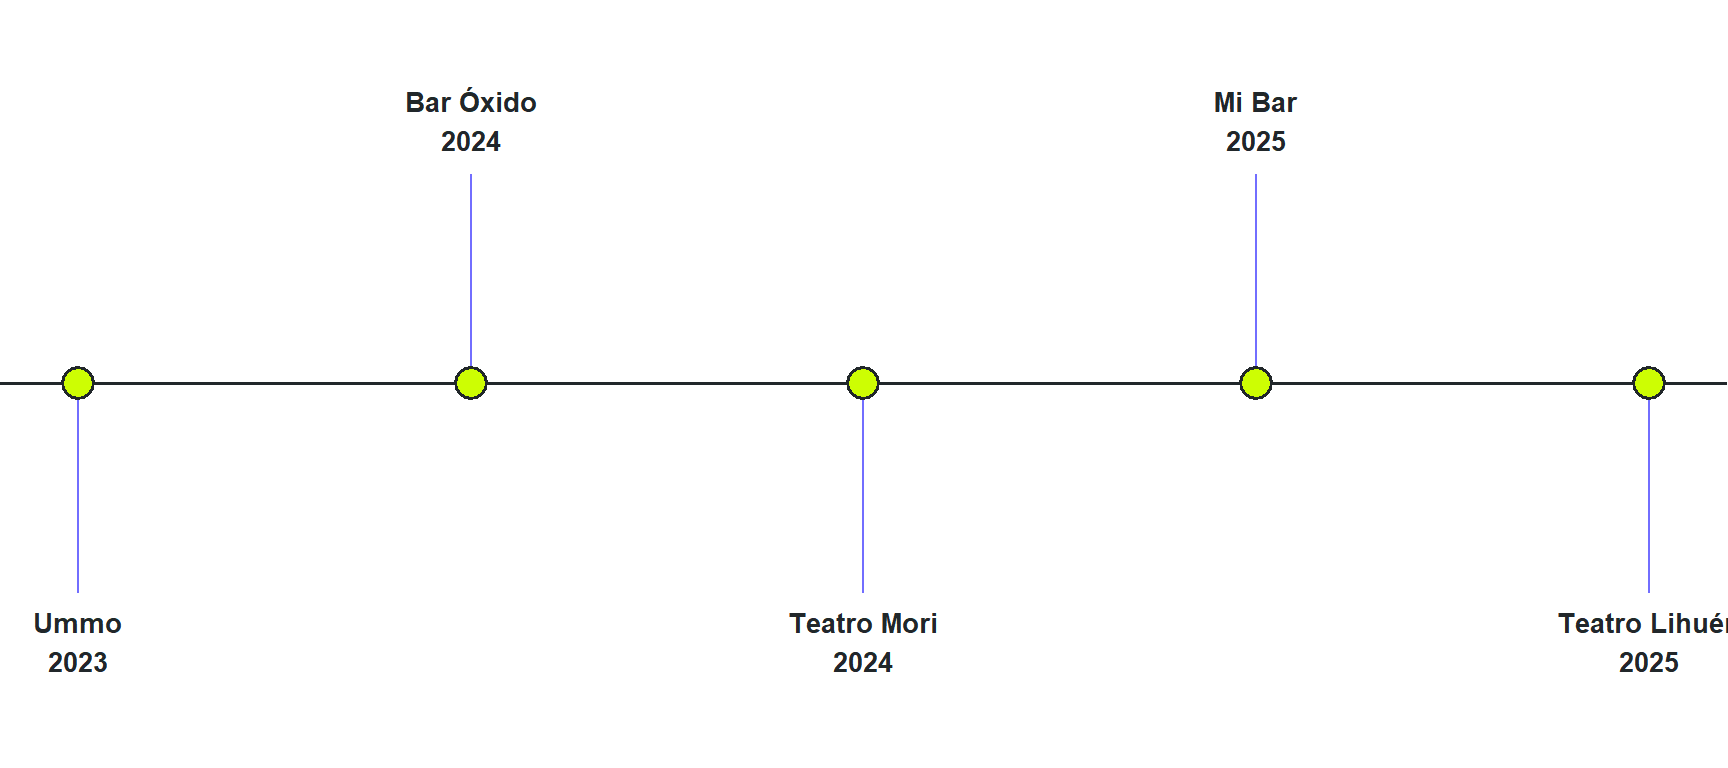
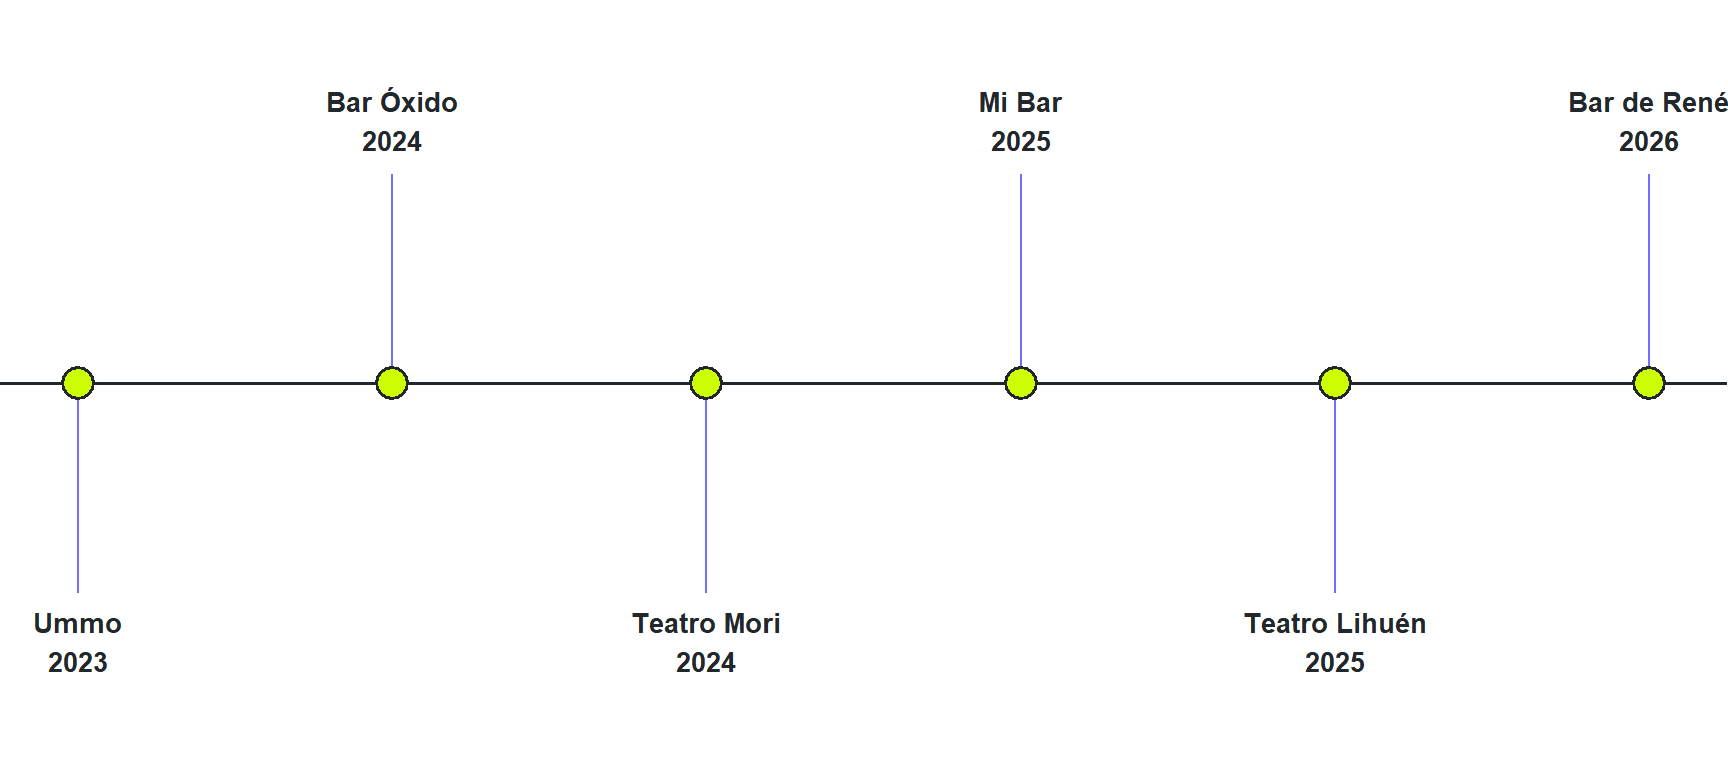
render

diff --git a/docs/posts/05-prensa/index.html b/docs/posts/05-prensa/index.html
@@ -6,7 +6,7 @@
 
 <meta name="viewport" content="width=device-width, initial-scale=1.0, user-scalable=yes">
 
-<meta name="description" content="Menciones en iRock, Cool Music, Rockaxis, Trunfo Rock, Freakopolis, Rara Frecuencia, Radio Sónica y Chile On The Rock.">
+<meta name="description" content="Menciones en Medios de Prensa">
 
 <title>Prensa – Autóctonos de Ninguna Parte</title>
 <style>
@@ -75,13 +75,13 @@ ul.task-list li input[type="checkbox"] {
 
 
 <meta property="og:title" content="Prensa – Autóctonos de Ninguna Parte">
-<meta property="og:description" content="Menciones en iRock, Cool Music, Rockaxis, Trunfo Rock, Freakopolis, Rara Frecuencia, Radio Sónica y Chile On The Rock.">
+<meta property="og:description" content="Menciones en Medios de Prensa">
 <meta property="og:image" content="https://Alobondo.github.io/ADNP/images/Prensa.png">
 <meta property="og:site_name" content="Autóctonos de Ninguna Parte">
 <meta property="og:image:height" content="416">
 <meta property="og:image:width" content="858">
 <meta name="twitter:title" content="Prensa – Autóctonos de Ninguna Parte">
-<meta name="twitter:description" content="Menciones en iRock, Cool Music, Rockaxis, Trunfo Rock, Freakopolis, Rara Frecuencia, Radio Sónica y Chile On The Rock.">
+<meta name="twitter:description" content="Menciones en Medios de Prensa">
 <meta name="twitter:image" content="https://Alobondo.github.io/ADNP/images/Prensa.png">
 <meta name="twitter:image-height" content="416">
 <meta name="twitter:image-width" content="858">
@@ -180,7 +180,7 @@ ul.task-list li input[type="checkbox"] {
 
 <div>
   <div class="description">
-    Menciones en iRock, Cool Music, Rockaxis, Trunfo Rock, Freakopolis, Rara Frecuencia, Radio Sónica y Chile On The Rock.
+    Menciones en Medios de Prensa
   </div>
 </div>
 
@@ -204,10 +204,10 @@ ul.task-list li input[type="checkbox"] {
 <div class="cell-output-display">
 <table class="caption-top table table-sm table-striped small">
 <colgroup>
-<col style="width: 7%">
+<col style="width: 4%">
 <col style="width: 1%">
-<col style="width: 46%">
-<col style="width: 44%">
+<col style="width: 31%">
+<col style="width: 62%">
 </colgroup>
 <thead>
 <tr class="header">
@@ -277,6 +277,18 @@ ul.task-list li input[type="checkbox"] {
 <td style="text-align: left;">2026</td>
 <td style="text-align: left;">Chile on the Rock || Episodio 28 de septiembre 2026 || Banda invitada: Autóctonos de Ninguna Parte</td>
 <td style="text-align: left;">https://www.youtube.com/watch?v=TPXDRj6rwVI</td>
+</tr>
+<tr class="odd">
+<td style="text-align: left;">Fe3dback</td>
+<td style="text-align: left;">2026</td>
+<td style="text-align: left;">Fe3dback || GOODSTOCK Radio || Banda invitada: Autóctonos de Ninguna Parte</td>
+<td style="text-align: left;">https://www.youtube.com/watch?si=C_IRtj5wogwpbEO4&amp;fbclid=PAZXh0bgNhZW0CMTEAcGRvZgJzcnRjBmFwcF9pZA85MzY2MTk3NDMzOTI0NTkAAadXD3HrLiM3_jg_Kwh9-jouJsD6HqBtLFuTtwY-dBmRWfc8-Bo3jrGK8iEePg_aem_itsHOijnSVdl1QnCobY65Q&amp;v=0p2KjA7me6s&amp;feature=youtu.be</td>
+</tr>
+<tr class="even">
+<td style="text-align: left;">Fxmedios</td>
+<td style="text-align: left;">2026</td>
+<td style="text-align: left;">Autóctonos de Ninguna Parte Estrena Canción</td>
+<td style="text-align: left;">https://www.instagram.com/p/DfBcvDgjrEu/?img_index=1</td>
 </tr>
 </tbody>
 </table>

diff --git a/docs/index.html b/docs/index.html
@@ -284,7 +284,7 @@ Power trío de rock alternativo desde Santiago de Chile. Este sitio reúne, secc
 </a>
 </div>
 </div>
-<div class="quarto-post image-right" data-index="2" data-categories="Ym9vayUyMGRlJTIwcHJlbnNh" data-listing-file-modified-sort="1788808249412" data-listing-reading-time-sort="1" data-listing-word-count-sort="115">
+<div class="quarto-post image-right" data-index="2" data-categories="Ym9vayUyMGRlJTIwcHJlbnNh" data-listing-file-modified-sort="1791570618974" data-listing-reading-time-sort="1" data-listing-word-count-sort="118">
 <div class="thumbnail"><a href="./posts/03-discografia/index.html" class="no-external">
 
 <img loading="lazy" src="./images/portada-postdigital.jpeg" class="thumbnail-image" style="height: 220px;">
@@ -322,7 +322,7 @@ Power trío de rock alternativo desde Santiago de Chile. Este sitio reúne, secc
 </a>
 </div>
 </div>
-<div class="quarto-post image-right" data-index="4" data-categories="Ym9vayUyMGRlJTIwcHJlbnNh" data-listing-file-modified-sort="1790871589198" data-listing-reading-time-sort="2" data-listing-word-count-sort="280">
+<div class="quarto-post image-right" data-index="4" data-categories="Ym9vayUyMGRlJTIwcHJlbnNh" data-listing-file-modified-sort="1793625253568" data-listing-reading-time-sort="2" data-listing-word-count-sort="284">
 <div class="thumbnail"><a href="./posts/05-prensa/index.html" class="no-external">
 
 <img loading="lazy" src="./images/Prensa.png" class="thumbnail-image" style="height: 220px;">
@@ -333,7 +333,7 @@ Power trío de rock alternativo desde Santiago de Chile. Este sitio reúne, secc
 <a href="./posts/05-prensa/index.html" class="no-external">Prensa</a>
 </h3>
 <div class="delink listing-description"><a href="./posts/05-prensa/index.html" class="no-external">
-<p>Menciones en iRock, Cool Music, Rockaxis, Trunfo Rock, Freakopolis, Rara Frecuencia, Radio Sónica y Chile On The Rock.</p>
+<p>Menciones en Medios de Prensa</p>
 </a></div>
 </div>
 <div class="metadata">
@@ -341,7 +341,7 @@ Power trío de rock alternativo desde Santiago de Chile. Este sitio reúne, secc
 </a>
 </div>
 </div>
-<div class="quarto-post image-right" data-index="5" data-categories="Ym9vayUyMGRlJTIwcHJlbnNh" data-listing-file-modified-sort="1788809728041" data-listing-reading-time-sort="2" data-listing-word-count-sort="251">
+<div class="quarto-post image-right" data-index="5" data-categories="Ym9vayUyMGRlJTIwcHJlbnNh" data-listing-file-modified-sort="1793625443244" data-listing-reading-time-sort="2" data-listing-word-count-sort="261">
 <div class="thumbnail"><a href="./posts/06-eventos/index.html" class="no-external">
 
 <img loading="lazy" src="./images/En_vivo.JPG" class="thumbnail-image" style="height: 220px;">
@@ -352,7 +352,7 @@ Power trío de rock alternativo desde Santiago de Chile. Este sitio reúne, secc
 <a href="./posts/06-eventos/index.html" class="no-external">Eventos</a>
 </h3>
 <div class="delink listing-description"><a href="./posts/06-eventos/index.html" class="no-external">
-<p>Destacados en vivo: Ummo, Bar Óxido, Teatro Mori, Mi Bar y Teatro Lihuén.</p>
+<p>Destacados en vivo: Ummo, Bar Óxido, Teatro Mori, Mi Bar, Teatro Lihuén y Bar de René.</p>
 </a></div>
 </div>
 <div class="metadata">

diff --git a/docs/posts/06-eventos/index.html b/docs/posts/06-eventos/index.html
@@ -6,7 +6,7 @@
 
 <meta name="viewport" content="width=device-width, initial-scale=1.0, user-scalable=yes">
 
-<meta name="description" content="Destacados en vivo: Ummo, Bar Óxido, Teatro Mori, Mi Bar y Teatro Lihuén.">
+<meta name="description" content="Destacados en vivo: Ummo, Bar Óxido, Teatro Mori, Mi Bar, Teatro Lihuén y Bar de René.">
 
 <title>Eventos – Autóctonos de Ninguna Parte</title>
 <style>
@@ -75,11 +75,11 @@ ul.task-list li input[type="checkbox"] {
 
 
 <meta property="og:title" content="Eventos – Autóctonos de Ninguna Parte">
-<meta property="og:description" content="Destacados en vivo: Ummo, Bar Óxido, Teatro Mori, Mi Bar y Teatro Lihuén.">
+<meta property="og:description" content="Destacados en vivo: Ummo, Bar Óxido, Teatro Mori, Mi Bar, Teatro Lihuén y Bar de René.">
 <meta property="og:image" content="https://Alobondo.github.io/ADNP/images/En_vivo.JPG">
 <meta property="og:site_name" content="Autóctonos de Ninguna Parte">
 <meta name="twitter:title" content="Eventos – Autóctonos de Ninguna Parte">
-<meta name="twitter:description" content="Destacados en vivo: Ummo, Bar Óxido, Teatro Mori, Mi Bar y Teatro Lihuén.">
+<meta name="twitter:description" content="Destacados en vivo: Ummo, Bar Óxido, Teatro Mori, Mi Bar, Teatro Lihuén y Bar de René.">
 <meta name="twitter:image" content="https://Alobondo.github.io/ADNP/images/En_vivo.JPG">
 <meta name="twitter:card" content="summary_large_image">
 </head>
@@ -176,7 +176,7 @@ ul.task-list li input[type="checkbox"] {
 
 <div>
   <div class="description">
-    Destacados en vivo: Ummo, Bar Óxido, Teatro Mori, Mi Bar y Teatro Lihuén.
+    Destacados en vivo: Ummo, Bar Óxido, Teatro Mori, Mi Bar, Teatro Lihuén y Bar de René.
   </div>
 </div>
 
@@ -226,6 +226,10 @@ ul.task-list li input[type="checkbox"] {
 <td style="text-align: left;">Teatro Lihuén</td>
 <td style="text-align: right;">2025</td>
 </tr>
+<tr class="even">
+<td style="text-align: left;">Bar de René</td>
+<td style="text-align: right;">2026</td>
+</tr>
 </tbody>
 </table>
 </div>
@@ -238,7 +242,7 @@ ul.task-list li input[type="checkbox"] {
 <img src="index_files/figure-html/fig-eventos-1.png" class="img-fluid figure-img" width="864">
 </div>
 <figcaption class="quarto-float-caption-bottom quarto-float-caption quarto-float-fig" id="fig-eventos-caption-0ceaefa1-69ba-4598-a22c-09a6ac19f8ca">
-Figura&nbsp;1: Presentaciones destacadas en vivo (2023-2025)
+Figura&nbsp;1: Presentaciones destacadas en vivo (2023-2026)
 </figcaption>
 </figure>
 </div>
